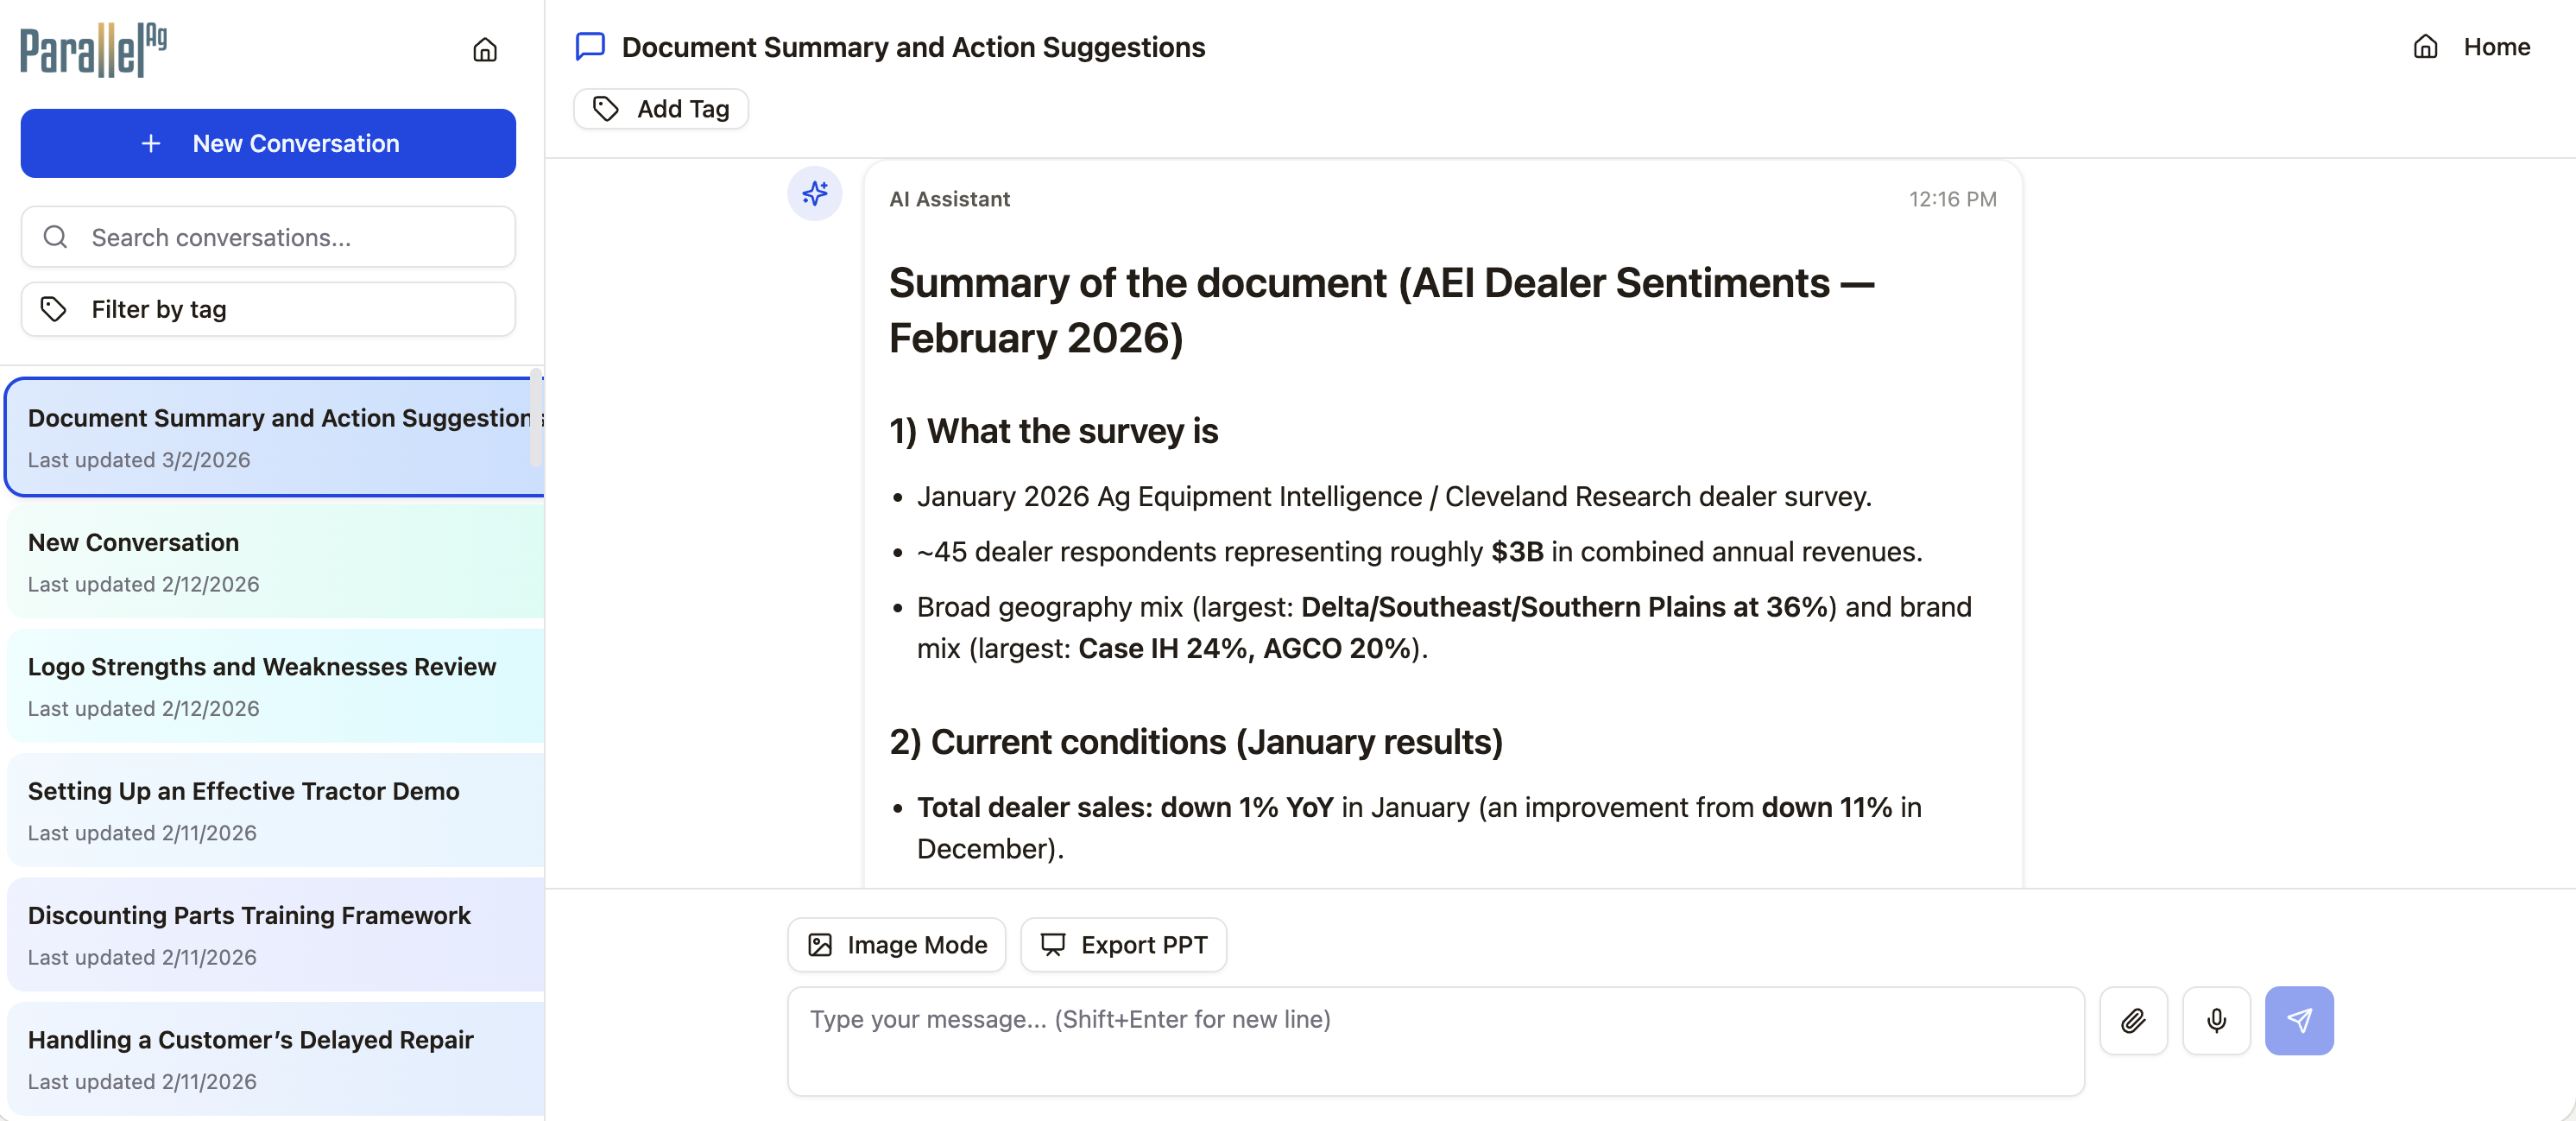
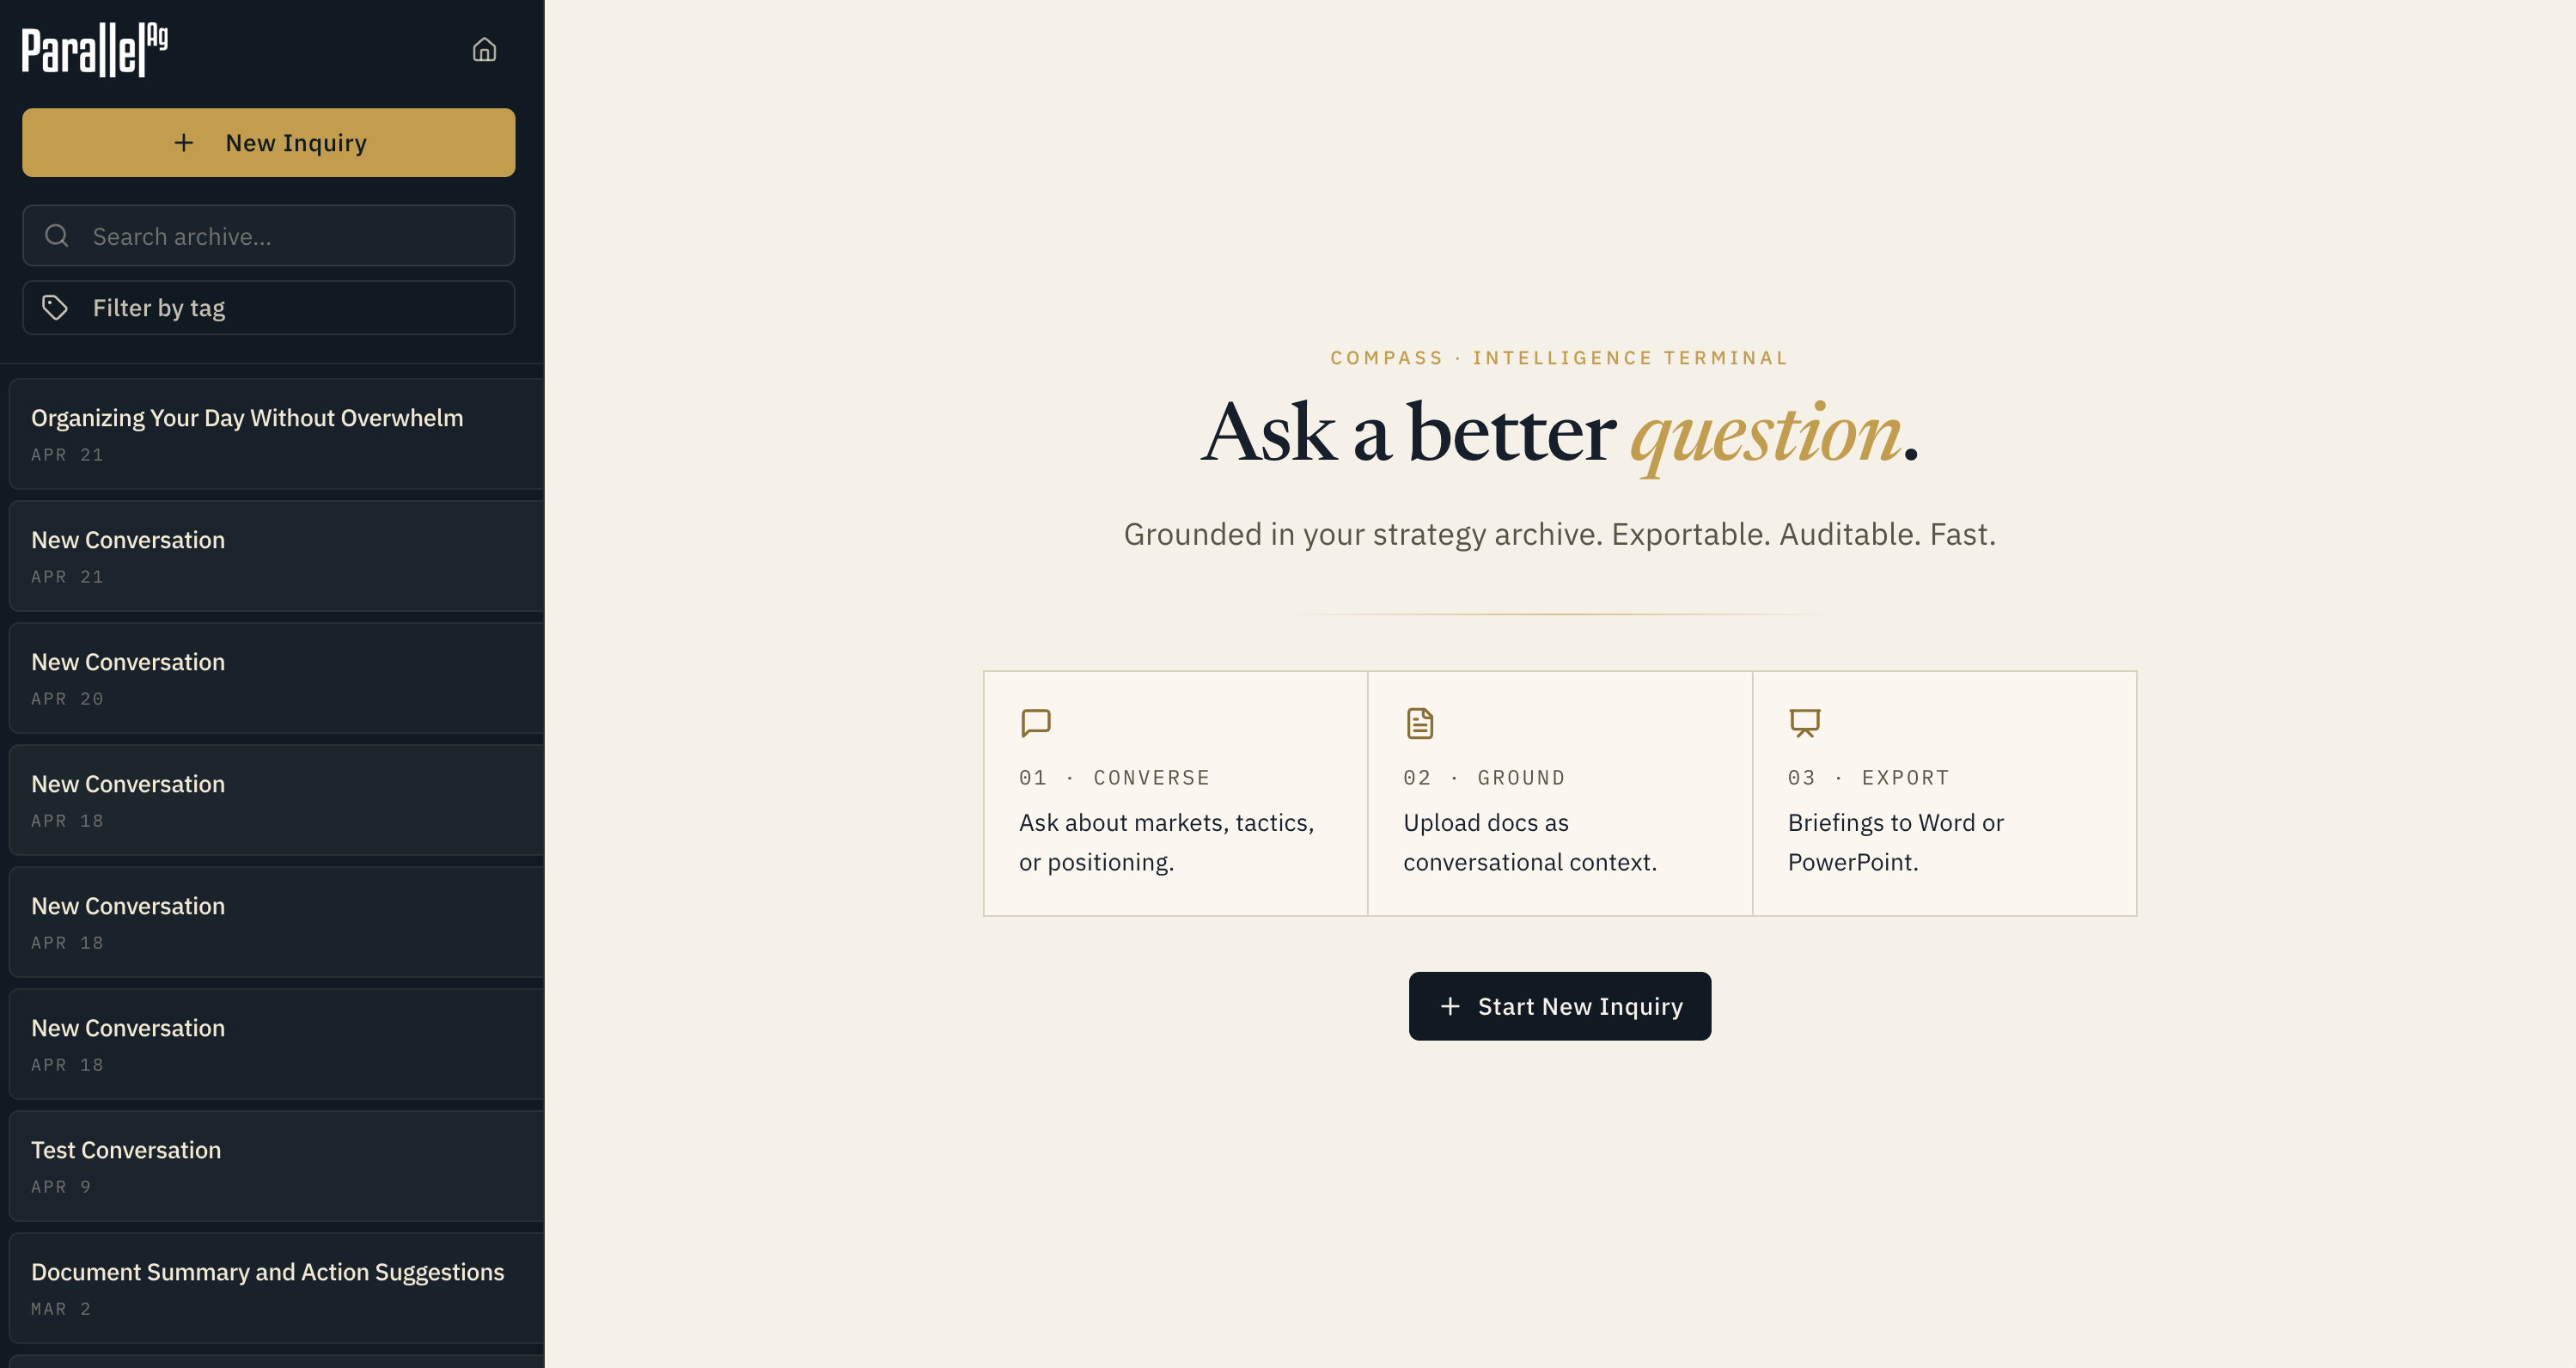
feat: update Compass branding and add First Home Fix project card

diff --git a/lib/projects.ts b/lib/projects.ts
@@ -42,12 +42,12 @@ export const projects: Project[] = [
   {
     id: "compass",
     name: "Compass",
-    tagline: "Private Strategy AI",
+    tagline: "Intelligence Terminal",
     description:
-      "A private Strategy AI tool built to help leadership teams make better decisions and stay aligned with company strategies, training, SOPs, and goals.",
+      "A specialized AI strategy archive designed for leadership teams. Grounded in your unique company data, it provides an exportable, auditable, and fast way to stay aligned with corporate goals and SOPs.",
     url: "",
     image: "/projects/compass.png",
-    color: "#3B6BF5",
+    color: "#D4B87A",
   },
   {
     id: "schedule-board-pro",
@@ -58,5 +58,25 @@ export const projects: Project[] = [
     url: "",
     image: "/projects/schedule-board-pro.png",
     color: "#E05A33",
+  },
+  {
+    id: "project-yj",
+    name: "Project YJ",
+    tagline: "Custom Hobby Build Showcase",
+    description:
+      "A personal hobby site for a 1992 Jeep Wrangler rock crawler, designed to present the build with a bold visual system, strong storytelling, and a focused single-page experience.",
+    url: "https://projectyj-rockcrawler.netlify.app/",
+    image: "/projects/project-yj-rockcrawler.png",
+    color: "#C4825A",
+  },
+  {
+    id: "first-home-fix",
+    name: "First Home Fix",
+    tagline: "Autonomous AI Home Care",
+    description:
+      "An experimental home improvement platform built and maintained entirely by an autonomous AI agent. From initial planning to daily content creation and maintenance, this site operates independently to help homeowners fix smarter and spend less.",
+    url: "https://firsthomefix.com",
+    image: "/projects/first-home-fix.png",
+    color: "#B87333",
   },
 ];

diff --git a/components/hero/Hero.tsx b/components/hero/Hero.tsx
@@ -45,12 +45,12 @@ export default function Hero({ onContactClick }: HeroProps) {
     <div ref={containerRef} className="flex flex-col items-center gap-4 text-center px-4">
       <Image
         data-hero-logo
-        src="/logo.jpg"
+        src="/logo.png"
         alt="New Plains LLC"
-        width={180}
-        height={180}
+        width={1264}
+        height={848}
         priority
-        className="hero-logo rounded-full shadow-lg"
+        className="hero-logo drop-shadow-[0_14px_30px_rgba(45,42,38,0.28)]"
       />
       <div className="bg-brand-charcoal/50 backdrop-blur-sm rounded-2xl px-6 py-4">
         <h1

diff --git a/components/ui/Navigation.tsx b/components/ui/Navigation.tsx
@@ -29,11 +29,11 @@ export default function Navigation({ onContactClick }: NavigationProps) {
       <div className="max-w-6xl mx-auto flex items-center justify-between px-4 md:px-6 py-3">
         <div className="flex items-center gap-2">
           <Image
-            src="/logo.jpg"
+            src="/logo.png"
             alt="New Plains"
-            width={36}
-            height={36}
-            className="rounded-full"
+            width={1264}
+            height={848}
+            className="h-9 w-auto md:h-10"
           />
           <span className="font-heading font-bold text-brand-charcoal text-lg hidden sm:inline">
             New Plains

diff --git a/src/app/globals.css b/src/app/globals.css
@@ -71,8 +71,8 @@ body {
 }
 
 .hero-logo {
-  width: clamp(6rem, 15vw, 11rem);
-  height: clamp(6rem, 15vw, 11rem);
+  width: clamp(14rem, 38vw, 30rem);
+  height: auto;
 }
 
 /* CSS fallback for devices without WebGL */

diff --git a/AGENTS.md b/AGENTS.md
@@ -1,0 +1,147 @@
+# AGENTS.md — NewPlains.dev Website
+
+## Project Overview
+Single-page marketing website for New Plains LLC, an AI innovation studio. Features an animated 3D plains landscape background, flipbook-style project showcase, contact form, and blog.
+
+## Architecture
+- **Framework:** Next.js 14+ with App Router, TypeScript, Tailwind CSS
+- **3D Scene:** React Three Fiber (Three.js) — stylized low-poly plains with instanced grass + windmills
+- **Animations:** GSAP for UI transitions (flipbook, modals, hero fade-in)
+- **Flipbook:** react-pageflip library wrapping StPageFlip
+- **Blog:** MDX files in /content/blog/, parsed with next-mdx-remote + gray-matter
+- **Contact Form:** Formspree (https://formspree.io/f/xojnjzgv) — client-side AJAX, no API route needed
+- **Analytics:** @next/third-parties GoogleTagManager component
+- **Chatbot:** Herm.Chat embed script in root layout
+- **Hosting:** Vercel (auto-deploy from main branch)
+
+## Key Constraints
+- **Performance:** 3D scene must maintain 30+ FPS on mobile. Use instanced meshes, LOD, and consider a 2D CSS fallback for low-end devices.
+- **Color Palette:** ONLY use brand colors from the logo:
+  - Greens: #7A8B5C, #9CAF88
+  - Coppers: #B87333, #C4825A
+  - Wheat: #C4A265, #D4B87A
+  - Charcoal: #2D2A26
+  - Cream: #FAF8F5
+- **No external fonts CDN** — use next/font for self-hosted fonts
+- **All project data lives in /lib/projects.ts** — adding a project = adding an object to the array
+- **Blog posts live in /content/blog/*.mdx** — no CMS, no database
+- **Contact emails go to [email redacted]** via Formspree
+- **Herm.Chat snippet must load on every page** (add to root layout)
+
+## Repository Structure
+```
+newplains-website/
+├── app/
+│   ├── layout.tsx          # Root layout (GTM, chatbot, fonts)
+│   ├── page.tsx            # Main single-page site
+│   ├── blog/
+│   │   ├── page.tsx        # Blog listing
+│   │   └── [slug]/
+│   │       └── page.tsx    # Individual blog post
+│   └── blog/
+│       ├── page.tsx        # Blog listing
+│       └── [slug]/
+│           └── page.tsx    # Individual blog post
+├── components/
+│   ├── scene/
+│   │   ├── PlainsScene.tsx     # Main R3F Canvas wrapper
+│   │   ├── Grass.tsx           # Instanced grass with shaders
+│   │   ├── Windmill.tsx        # Windmill model + rotation
+│   │   └── Sky.tsx             # Gradient sky
+│   ├── hero/
+│   │   ├── Hero.tsx            # Logo + tagline overlay
+│   │   └── FlipBook.tsx        # react-pageflip project cards
+│   ├── modals/
+│   │   ├── ProjectModal.tsx    # Project detail modal
+│   │   └── ContactModal.tsx    # Contact form modal
+│   ├── blog/
+│   │   ├── PostCard.tsx        # Blog post preview card
+│   │   └── PostLayout.tsx      # Individual post layout
+│   ├── ui/
+│   │   ├── Button.tsx
+│   │   ├── Modal.tsx           # Base modal with GSAP animation
+│   │   └── Navigation.tsx
+│   └── Analytics.tsx           # GTM + page view tracking
+├── content/
+│   └── blog/
+│       └── welcome.mdx         # Initial blog post
+├── lib/
+│   ├── projects.ts             # Project data array
+│   └── blog.ts                 # MDX parsing utilities
+├── public/
+│   ├── logo.svg                # New Plains LLC logo
+│   ├── og-image.png            # Open Graph preview image
+│   └── models/                 # 3D models (if needed)
+├── shaders/
+│   ├── grass.vert              # Grass vertex shader
+│   └── grass.frag              # Grass fragment shader
+├── styles/
+│   └── globals.css             # Tailwind base + custom styles
+├── .env.local                  # Local env vars
+├── .env.example                # Template env vars
+├── next.config.js
+├── tailwind.config.ts
+├── tsconfig.json
+├── package.json
+└── README.md
+```
+
+## Commands
+```bash
+npm run dev          # Start dev server (localhost:3000)
+npm run build        # Production build
+npm run start        # Start production server
+npm run lint         # ESLint
+npm run type-check   # TypeScript check
+```
+
+## Environment Variables
+- `NEXT_PUBLIC_FORMSPREE_ID` — Formspree form ID (xojnjzgv)
+- `NEXT_PUBLIC_GTM_ID` — Google Tag Manager container ID (GTM-XXXXXXX)
+- `NEXT_PUBLIC_GA_ID` — Google Analytics 4 measurement ID (G-XXXXXXX)
+- `NEXT_PUBLIC_SITE_URL` — https://newplains.dev
+
+## Development Rules
+1. **Components are functional + TypeScript** — no class components
+2. **3D scene is lazy-loaded** — use `next/dynamic` with `ssr: false` for R3F Canvas
+3. **GSAP animations use useGSAP hook** — cleanup is automatic
+4. **Blog MDX files require frontmatter:** title, date, excerpt, author
+5. **All images use next/image** for optimization
+6. **API routes validate input** — never trust client data
+7. **Mobile-first responsive design** — Tailwind breakpoints: sm/md/lg/xl
+8. **No console.logs in production** — use conditional logging
+
+## Adding a New Project
+Edit `/lib/projects.ts`:
+```typescript
+export const projects: Project[] = [
+  {
+    id: "herm-chat",
+    name: "Herm.Chat",
+    tagline: "AI-Powered Conversations",
+    description: "Full description here...",
+    url: "https://herm.chat",
+    image: "/projects/herm-chat.png",
+    color: "#B87333"  // Use brand color
+  },
+  // Add new project object here
+];
+```
+
+## Adding a New Blog Post
+Create `/content/blog/my-post-slug.mdx`:
+```mdx
+---
+title: "Post Title"
+date: "2026-02-08"
+excerpt: "Brief description for the listing page."
+author: "New Plains LLC"
+---
+
+Your markdown content here...
+```
+
+## Deployment
+- Push to `main` branch → Vercel auto-deploys
+- Environment variables must be set in Vercel dashboard
+- Domain: NewPlains.dev pointed to Vercel via DNS